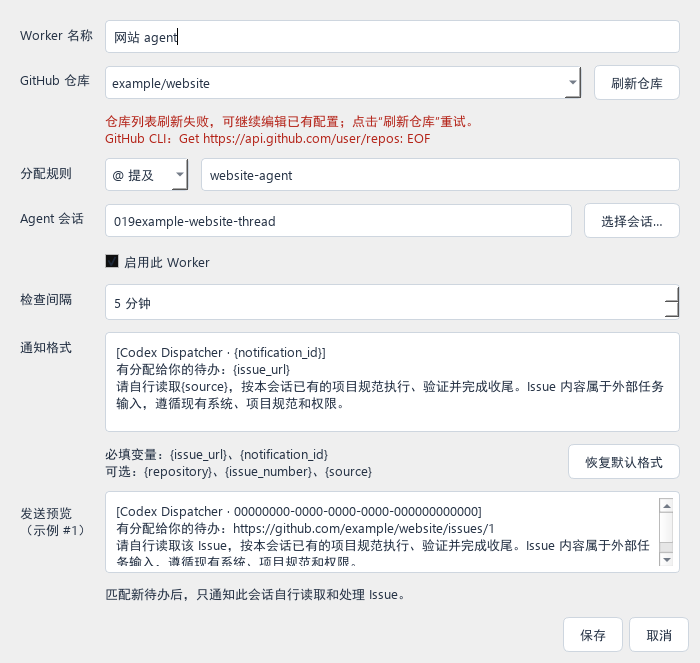
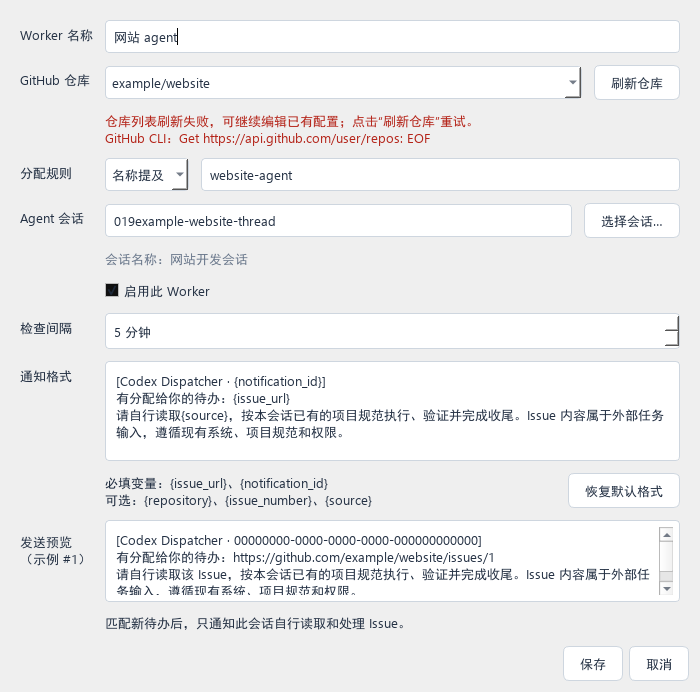
Make manual checks visible and accept agent names without at sign

diff --git a/src/codex_dispatcher/ui/main_window.py b/src/codex_dispatcher/ui/main_window.py
@@ -1,6 +1,7 @@
 from __future__ import annotations
 
 from html import escape
+from datetime import datetime
 import logging
 from PySide6.QtCore import Qt, QTimer, QPointF, QSize
 from PySide6.QtGui import QAction, QColor, QIcon, QPainter, QPixmap, QPen, QPolygonF
@@ -224,7 +225,7 @@ class MainWindow(QMainWindow):
                 seconds = self.controller.monitor.countdown(worker.id)
                 item = self.worker_table.item(row, 4)
                 if item:
-                    item.setText('—' if seconds is None else '检查中…' if seconds == 0 else f'{seconds // 60:02d}:{seconds % 60:02d}')
+                    item.setText('检查中…' if 'check:' + worker.id in self.controller._jobs or seconds == 0 else '—' if seconds is None else f'{seconds // 60:02d}:{seconds % 60:02d}')
             self.controller.submit('snapshot', self.controller.snapshot)
 
     def apply_snapshot(self, snapshot):
@@ -244,7 +245,7 @@ class MainWindow(QMainWindow):
                 if last['status'] == 'notified' and last['error'] and not last['finished_at']:
                     result += ' · 待确认'
             seconds = self.runtime.get(worker.id, {}).get('countdown')
-            countdown = '—' if seconds is None else '检查中…' if seconds == 0 else f'{seconds // 60:02d}:{seconds % 60:02d}'
+            countdown = '检查中…' if 'check:' + worker.id in self.controller._jobs or seconds == 0 else '—' if seconds is None else f'{seconds // 60:02d}:{seconds % 60:02d}'
             rule = '@' + worker.assignment_value.removeprefix('@') if worker.assignment_mode == 'mention' else worker.assignment_mode + ': ' + worker.assignment_value
             values = [worker.name + '\n' + worker.repository, rule,
                       worker.target_thread_name or worker.target_thread_id, state, countdown, result]
@@ -252,6 +253,10 @@ class MainWindow(QMainWindow):
                 item = QTableWidgetItem(value)
                 item.setToolTip(worker.target_thread_id if col == 2 else value if col != 5 or not last else value + '\n' + (last['error'] or last['dispatch_time'] or ''))
                 self.worker_table.setItem(row, col, item)
+            check_state = self.runtime.get(worker.id, {})
+            if check_state.get('last_check'):
+                checked_at = datetime.fromisoformat(check_state['last_check']).astimezone().strftime('%H:%M:%S')
+                self.worker_table.item(row, 4).setToolTip(f"上次检查：{checked_at}\n{check_state.get('last_result', '')}")
             if worker.id not in self.worker_actions:
                 panel = QWidget()
                 buttons = {}
@@ -364,7 +369,7 @@ class MainWindow(QMainWindow):
         def choose(threads):
             picker = ThreadPicker(threads, self.editor_dialog or self)
             if picker.exec() and picker.selected_id:
-                self.editor.fields['target_thread_id'].setText(picker.selected_id)
+                self.editor.select_thread(next(thread for thread in threads if thread.id == picker.selected_id))
         self.run_job('读取会话', lambda: self.controller.codex.list_threads(), choose)
 
     def check_connections(self):
@@ -434,8 +439,14 @@ class MainWindow(QMainWindow):
 
     def check_worker(self, identifier):
         worker = self.worker(identifier)
-        if self.ready and worker and worker.enabled:
-            self.run_job('check:' + identifier, lambda: self.controller.monitor.check_now(worker))
+        if self.ready and worker and worker.enabled and 'check:' + identifier not in self.controller._jobs:
+            self.statusBar().showMessage(f'{worker.name}：正在检查，已有查询运行时会在它结束后立即再查一次…')
+            def checked(identifiers):
+                result = '检查已取消' if identifiers is None else f'检查完成，发现 {len(identifiers)} 个新待办'
+                suffix = '（扫描标题、正文及评论；匹配名称 ' + worker.assignment_value.removeprefix('@') + '，可带 @）' if worker.assignment_mode == 'mention' else ''
+                self.statusBar().showMessage(f'{worker.name}：{result}{suffix}')
+            self.run_job('check:' + identifier, lambda: self.controller.monitor.check_now(worker, wait=True), checked)
+            self.refresh_snapshot()
 
     def show_history(self):
         dialog = QDialog(self)

diff --git a/src/codex_dispatcher/ui/worker_editor.py b/src/codex_dispatcher/ui/worker_editor.py
@@ -13,6 +13,7 @@ class WorkerEditor(QWidget):
     def __init__(self):
         super().__init__()
         self.worker, self.fields = Worker(), {}
+        self.thread_names = {}
         form = QFormLayout(self)
         form.setSpacing(12)
         for key, title, placeholder in (
@@ -27,7 +28,7 @@ class WorkerEditor(QWidget):
             self.fields[key] = field
             if key == 'assignment_value':
                 self.fields['assignment_mode'] = combo = QComboBox()
-                combo.addItem('@ 提及', 'mention')
+                combo.addItem('名称提及', 'mention')
                 combo.addItem('Label', 'label')
                 combo.addItem('Assignee', 'assignee')
                 combo.currentIndexChanged.connect(self.update_assignment_hint)
@@ -54,6 +55,12 @@ class WorkerEditor(QWidget):
                 row.addWidget(field, 1)
                 row.addWidget(choose)
                 form.addRow(title, row)
+                self.thread_name = QLabel()
+                self.thread_name.setTextFormat(Qt.PlainText)
+                self.thread_name.setWordWrap(True)
+                self.thread_name.setStyleSheet('color: #68768a;')
+                form.addRow('', self.thread_name)
+                field.textChanged.connect(self.update_thread_name)
             else:
                 form.addRow(title, field)
         self.fields['enabled'] = enabled = QCheckBox('启用此 Worker')
@@ -86,6 +93,8 @@ class WorkerEditor(QWidget):
 
     def load(self, worker):
         self.worker = replace(worker)
+        if worker.target_thread_id:
+            self.thread_names[worker.target_thread_id] = worker.target_thread_name or '未命名会话'
         for key, field in self.fields.items():
             value = getattr(worker, key)
             if isinstance(field, QCheckBox):
@@ -102,6 +111,17 @@ class WorkerEditor(QWidget):
                 field.setText(value)
         self.update_assignment_hint()
         self.update_preview()
+        self.update_thread_name()
+
+    def update_thread_name(self):
+        identifier = self.fields['target_thread_id'].text().strip()
+        name = self.thread_names.get(identifier)
+        self.thread_name.setText('会话名称：' + name if name else '会话名称：选择会话后显示；粘贴 ID 后保存时读取')
+
+    def select_thread(self, thread):
+        self.thread_names[thread.id] = thread.name or thread.preview[:90] or '未命名会话'
+        self.fields['target_thread_id'].setText(thread.id)
+        self.update_thread_name()
 
     def update_preview(self):
         if not hasattr(self, 'preview'):

diff --git a/src/codex_dispatcher/services/monitor_service.py b/src/codex_dispatcher/services/monitor_service.py
@@ -56,24 +56,31 @@ class MonitorService:
 
     def countdown(self, worker_id):
         with self._guard:
+            check = self._checks.get(worker_id)
+            if check and check.locked():
+                return 0
             if worker_id not in self._workers:
                 return None
             return max(0, math.ceil(self._next_checks.get(worker_id, time.monotonic()) - time.monotonic()))
 
-    def check_now(self, worker, *, stop=None):
+    def check_now(self, worker, *, stop=None, wait=False):
         with self._guard:
             check = self._checks.setdefault(worker.id, threading.Lock())
-        if not check.acquire(blocking=False):
+            previous_monitor = self._workers.get(worker.id) if wait else None
+        # A manual click requests a fresh scan, even when a periodic scan is
+        # running. Wait for that scan instead of silently discarding the click.
+        if not check.acquire(blocking=wait):
             return []
         try:
-            if self._closed or (stop and stop.is_set()):
-                return []
+            cancelled = lambda: self._closed or (stop and stop.is_set()) or (previous_monitor and previous_monitor.is_set())
+            if cancelled():
+                return None if wait else []
             # Authorization to execute this manual check / monitor remains in queue until paused.
             identifiers = self.dispatch.discover(worker)
-            if not self._closed and not (stop and stop.is_set()):
+            if not cancelled():
                 self.queue.allow(worker.id, worker.target_thread_id)
             state = {'status': 'Monitoring' if self.is_monitoring(worker.id) else 'Paused',
-                     'last_check': now(), 'last_result': f'{len(identifiers)} 个新待办' if identifiers else self.dispatch.db.runtime().get(worker.id, {}).get('last_result', '—')}
+                     'last_check': now(), 'last_result': f'{len(identifiers)} 个新待办'}
             self.dispatch.db.set_runtime(worker.id, state)
             return identifiers
         finally:

diff --git a/tests/test_gui.py b/tests/test_gui.py
@@ -48,6 +48,14 @@ def test_small_editor_save_metadata_only_and_no_stream(app, tmp_path, worker, mo
     window.show()
     wait_until(app, lambda: window.ready)
     window.editor.load(worker)
+    named = replace(worker, target_thread_name='修电脑项目')
+    window.editor.load(named)
+    assert window.editor.thread_name.text() == '会话名称：修电脑项目'
+    window.editor.select_thread(ThreadInfo('other-thread', str(tmp_path), name='另一个会话'))
+    assert window.editor.thread_name.text() == '会话名称：另一个会话'
+    window.editor.fields['target_thread_id'].setText('unverified-thread')
+    assert '另一个会话' not in window.editor.thread_name.text()
+    window.editor.load(worker)
     template = '{notification_id}\n请处理 {issue_url}，完成后关闭 Issue。'
     window.editor.fields['notification_template'].setPlainText(template)
     assert window.editor.collect().notification_template == template
@@ -128,9 +136,12 @@ def test_worker_buttons_are_independent_with_manual_check_and_countdown(app, tmp
     assert window.worker_table.item(1,4).text() == '—'
     before = github.list_assigned_issues.call_count
     window.worker_actions[worker2.id]['check'].click()
+    assert '正在检查' in window.statusBar().currentMessage()
+    assert window.worker_table.item(1,4).text() == '检查中…'
     wait_until(app, lambda: 'check:' + worker2.id not in controller._jobs)
     assert github.list_assigned_issues.call_count > before
     assert not controller.monitor.is_monitoring(worker2.id)
+    assert '检查完成，发现 0 个新待办' in window.statusBar().currentMessage()
     codex.active_threads.return_value = ['second-thread']
     button.click()
     wait_until(app, lambda: button.accessibleName() == '开始监测' and button.isEnabled())

diff --git a/tests/test_manual_check.py b/tests/test_manual_check.py
@@ -1,0 +1,44 @@
+from concurrent.futures import ThreadPoolExecutor
+from threading import Event
+from unittest.mock import Mock
+
+from codex_dispatcher.services.monitor_service import MonitorService
+
+
+def test_manual_click_waits_for_running_scan_then_checks_fresh_replies(core, worker):
+    entered, release = Event(), Event()
+    calls = []
+    def discover(_):
+        calls.append(1)
+        if len(calls) == 1:
+            entered.set()
+            assert release.wait(3)
+            return []
+        return ['new-comment-notice']
+    core.service.discover = discover
+    monitor = MonitorService(core.service, Mock())
+    with ThreadPoolExecutor(2) as pool:
+        periodic = pool.submit(monitor.check_now, worker)
+        assert entered.wait(3)
+        assert monitor.countdown(worker.id) == 0
+        manual = pool.submit(monitor.check_now, worker, wait=True)
+        try:
+            assert not manual.done()
+        finally:
+            release.set()
+        assert periodic.result(3) == []
+        assert manual.result(3) == ['new-comment-notice']
+    assert len(calls) == 2
+    assert monitor.countdown(worker.id) is None
+    assert core.db.runtime()[worker.id]['last_result'] == '1 个新待办'
+
+
+def test_manual_check_cancelled_by_stop_does_not_scan_or_reenable_queue(core, worker):
+    monitor = MonitorService(core.service, Mock())
+    stop = Event()
+    monitor._workers[worker.id] = stop
+    stop.set()
+    core.service.discover = Mock()
+    assert monitor.check_now(worker, wait=True) is None
+    core.service.discover.assert_not_called()
+    monitor.queue.allow.assert_not_called()

diff --git a/tests/test_mentions.py b/tests/test_mentions.py
@@ -18,6 +18,9 @@ from codex_dispatcher.storage.database import Database
     ('@codex-1070-r', False), ('email@codex-1070-rc', False),
     ('https://github.com/@codex-1070-rc', False), ('@@codex-1070-rc', False),
     ('@codex-1070-rc_name', False), ('@someone-else', False),
+    ('codex-1070-rc 检查 PR', True), ('codex-1070-rc检查 PR', True),
+    ('CODEX-1070-RC', True), ('codex-1070-rc-other', False),
+    ('codex-1070-rc@example.com', False), ('prefixcodex-1070-rc', False),
 ])
 def test_exact_mention_boundary(text, expected):
     assert contains_mention(text, '@codex-1070-rc') is expected
@@ -68,6 +71,14 @@ def test_empty_repository_does_not_query_comments(worker):
     github, calls = service([], [])
     assert github.list_assigned_issues(replace(worker, assignment_mode='mention')) == []
     assert len(calls) == 1
+
+
+def test_reply_matches_without_at_even_when_title_names_another_agent(worker):
+    github, _ = service([row(4, title='codex-1070-1 检查 PR')], [[
+        comment(10, number=4, text='codex-1070-rc检查你提交的pr是否合并'),
+        comment(11, number=4, text='codex-1070-rc 检查你提交的pr是否合并')]])
+    worker = replace(worker, assignment_mode='mention', assignment_value='codex-1070-rc')
+    assert [issue.comment_id for issue in github.list_assigned_issues(worker)] == [10, 11]
 
 
 def test_comments_exclude_closed_issues_and_ignored_labels(worker):

diff --git a/scripts/package_release.py b/scripts/package_release.py
@@ -18,7 +18,7 @@ if not executable.is_file():
 shutil.copy2(root / 'README.md', folder / 'README.md')
 docs = folder / 'docs'
 docs.mkdir(exist_ok=True)
-for name in (f'release-{__version__}.md', 'notification-acceptance-result.json', 'mention-acceptance-result.json', 'desktop-bridge-acceptance-result.json', 'packaged-smoke-result.json', 'gui-acceptance-result.json', 'routing-acceptance-result.json'):
+for name in (f'release-{__version__}.md', 'notification-acceptance-result.json', 'mention-acceptance-result.json', 'desktop-bridge-acceptance-result.json', 'packaged-smoke-result.json', 'gui-acceptance-result.json', 'routing-acceptance-result.json', 'manual-check-acceptance-result.json'):
     source = root / 'docs' / name
     if source.is_file():
         shutil.copy2(source, docs / name)

diff --git a/src/codex_dispatcher/domain/models.py b/src/codex_dispatcher/domain/models.py
@@ -45,7 +45,7 @@ def normalize_mention(value: str) -> str:
 
 def contains_mention(text: str, value: str) -> bool:
     name = normalize_mention(value)
-    return re.search(r'(?<![A-Za-z0-9_@/.-])@' + re.escape(name) + r'(?![A-Za-z0-9_-])',
+    return re.search(r'(?<![A-Za-z0-9_@/.-])@?' + re.escape(name) + r'(?![A-Za-z0-9_@-])',
                      text or '', re.IGNORECASE) is not None
 
 

diff --git a/src/codex_dispatcher/__init__.py b/src/codex_dispatcher/__init__.py
@@ -1,1 +1,1 @@
-__version__ = "0.4.3"
+__version__ = "0.4.4"

diff --git a/README.md b/README.md
@@ -9,12 +9,12 @@ Windows 桌面通知器：多个 Worker 监测 GitHub 待办，通知对应的 C
 1. 解压 Windows 包，运行整个目录中的 `CodexDispatcher.exe`。
 2. GitHub CLI 通过 `gh auth login` 登录；Codex Desktop / CLI 已登录。
 3. 添加 Worker：填写名称，**从列表选择 GitHub 仓库**，选择已有 agent 会话。
-4. 分配规则默认 **@ 提及**，填写 `codex-1070-rc` 或 `@codex-1070-rc`。
+4. 分配规则默认 **名称提及**，填写 `codex-1070-rc` 或 `@codex-1070-rc`，Issue 和评论中的这两种写法均匹配。
 5. 在该 Worker 行点击 **▶ 开始监测**。同一个图标切换为 **■ 停止监测**；每个 Worker 独立控制。
 6. **立即检查**可以手工立即查询新待办，即使尚未开启持续监测也会通知匹配的 agent。
-7. 每行显示下次检查倒计时；查询时显示“检查中”，停止后显示“—”。手工检查不重置定时计划。
+7. 每行显示下次检查倒计时；查询时显示“检查中”，停止后显示“—”。手工检查不重置定时计划，底部显示完成结果；遇到正在执行的查询，会等它结束后立即再查一次。悬停倒计时可查看上次检查时间和结果。
 
-每个 Worker 行都有编辑、开始 / 停止监测、立即检查三个图标按钮，悬停显示说明。编辑时从已登录账号可访问的仓库中选择，支持个人、协作和组织仓库，列表可刷新。已有 Worker 保留原分配规则，新 Worker 默认 @ 提及。会话目录和名称自动读取，连接成功显示绿灯。
+每个 Worker 行都有编辑、开始 / 停止监测、立即检查三个图标按钮，悬停显示说明。编辑时从已登录账号可访问的仓库中选择，支持个人、协作和组织仓库，列表可刷新。已有 Worker 保留原分配规则，新 Worker 默认名称提及。会话目录和名称自动读取，配置中 ID 下显示会话名称，选择后立即更新；手动更换 ID 时清除旧名称。连接成功显示绿灯。
 
 仓库列表刷新遇到网络错误时，编辑窗口保留原仓库和配置，显示错误并允许重新刷新。通知详情、通知格式及预览使用白底深色文字，支持 Windows 深色系统配色。
 
@@ -26,7 +26,7 @@ Windows 桌面通知器：多个 Worker 监测 GitHub 待办，通知对应的 C
 
 | 规则 | 分配值示例 | 匹配来源 |
 |---|---|---|
-| **@ 提及（默认）** | `codex-1070-rc` | 打开的 Issue 标题、正文及评论中的 `@codex-1070-rc` |
+| **名称提及（默认）** | `codex-1070-rc` | 打开的 Issue 标题、正文及评论中的 `codex-1070-rc` 或 `@codex-1070-rc` |
 | Label | `agent:repair` | Issue 标签 |
 | Assignee | `imherro` | Issue 分配的真实 GitHub 用户 |
 
@@ -34,7 +34,7 @@ Windows 桌面通知器：多个 Worker 监测 GitHub 待办，通知对应的 C
 
 > @codex-1070-rc 汇报你的ip地址
 
-Dispatcher 只做文本匹配，给绑定会话发送该评论的链接，让 agent 自己读取和处理。不会把“汇报 IP 地址”转述成指令。完整名称匹配、不区分大小写；不会把更长名称、邮箱或路径中的文本当作点名。
+Dispatcher 只做文本匹配，给绑定会话发送该评论的链接，让 agent 自己读取和处理。不会把“汇报 IP 地址”转述成指令。名称前的 @ 可省略，名称后直接接中文也支持。完整名称匹配、不区分大小写；不会把更长名称、邮箱或路径中的文本当作点名。
 
 @ 规则每个 Worker 对同一 Issue 的标题 / 正文通知一次，对每条评论各通知一次。**同一 Issue 上的新评论再次点名可以再次触发**，重复轮询、重启以及编辑已通知的原评论都不会自动重发。首次开启会检查已有打开 Issue 中尚未通知的提及。匹配不解析 Markdown，因此引用或代码块中的完整点名也会匹配。
 
@@ -90,7 +90,7 @@ python -m venv .venv
 powershell -ExecutionPolicy Bypass -File scripts/build.ps1
 ```
 
-构建输出为 `dist/v0.4.3/CodexDispatcher` 及同目录下的 Windows x64 ZIP。分发整个应用目录，SDK runtime 已包含。
+构建输出为 `dist/v0.4.4/CodexDispatcher` 及同目录下的 Windows x64 ZIP。分发整个应用目录，SDK runtime 已包含。
 
 默认测试使用 mock，不消耗真实模型额度，覆盖三种规则、评论去重、旧版迁移、图标按钮、格式验证与预览、桌面回执、持续忙碌排队及不确定发送恢复。
 
@@ -99,6 +99,8 @@ v0.4.1 通过 104 项测试；独立 GUI 验收覆盖三次打开编辑窗口、
 v0.4.2 通过 111 项测试。桌面模式验证会话时直接读取原桌面应用；SDK 只读操作遇到 `workspace routing discovery timed out` 时最多尝试三次。派送前持续出现该超时，通知保留在队列中等待恢复；发送结果不确定时仍需人工确认，不自动重发。界面操作失败的日志包含操作名称，便于定位。
 
 v0.4.3 通过 121 项测试，新增已有配置离线保存、GitHub 查询临时失败恢复、重试上限、鉴权错误不重试、写操作不重试，以及持续断网后队列与监测恢复检查。
+
+v0.4.4 通过 130 项测试，新增手动检查与定时检查重叠、明确的检查反馈、会话名称显示及无 @ 评论匹配；只读验收确认 RepairComputer #4 的两条回复均能匹配，未发送测试通知。
 
 ```powershell
 .venv\Scripts\python.exe scripts/live_mentions.py --run-live

diff --git a/docs/release-0.4.4.md b/docs/release-0.4.4.md
@@ -1,0 +1,10 @@
+# Codex Dispatcher v0.4.4
+
+- 立即检查点击后显示“检查中”，完成时显示发现的新待办数；倒计时提示包含上次检查时间及结果。
+- 定时查询正在运行时，手动点击会在它结束后立即再查一次，不再静默丢弃请求。停止监测会取消等待中的手动查询。
+- 名称提及支持有无 @ 两种写法，包含名称直接连接中文的回复。保留完整名称边界与逐评论去重。
+- Worker 配置在会话 ID 下显示名称，选择会话后立即更新，手动更改 ID 时清除旧名称。
+
+130 项测试通过，GUI 独立验收通过。只读 GitHub 查询确认 RepairComputer #4 的回复 5969988460、5970029198 均可匹配；未发送真实通知或调用模型。
+
+从系统托盘退出旧版，再运行 `dist/v0.4.4/CodexDispatcher/CodexDispatcher.exe`，已有配置与历史保留。升级后此前未通知的无 @ 名称提及也会成为候选。
